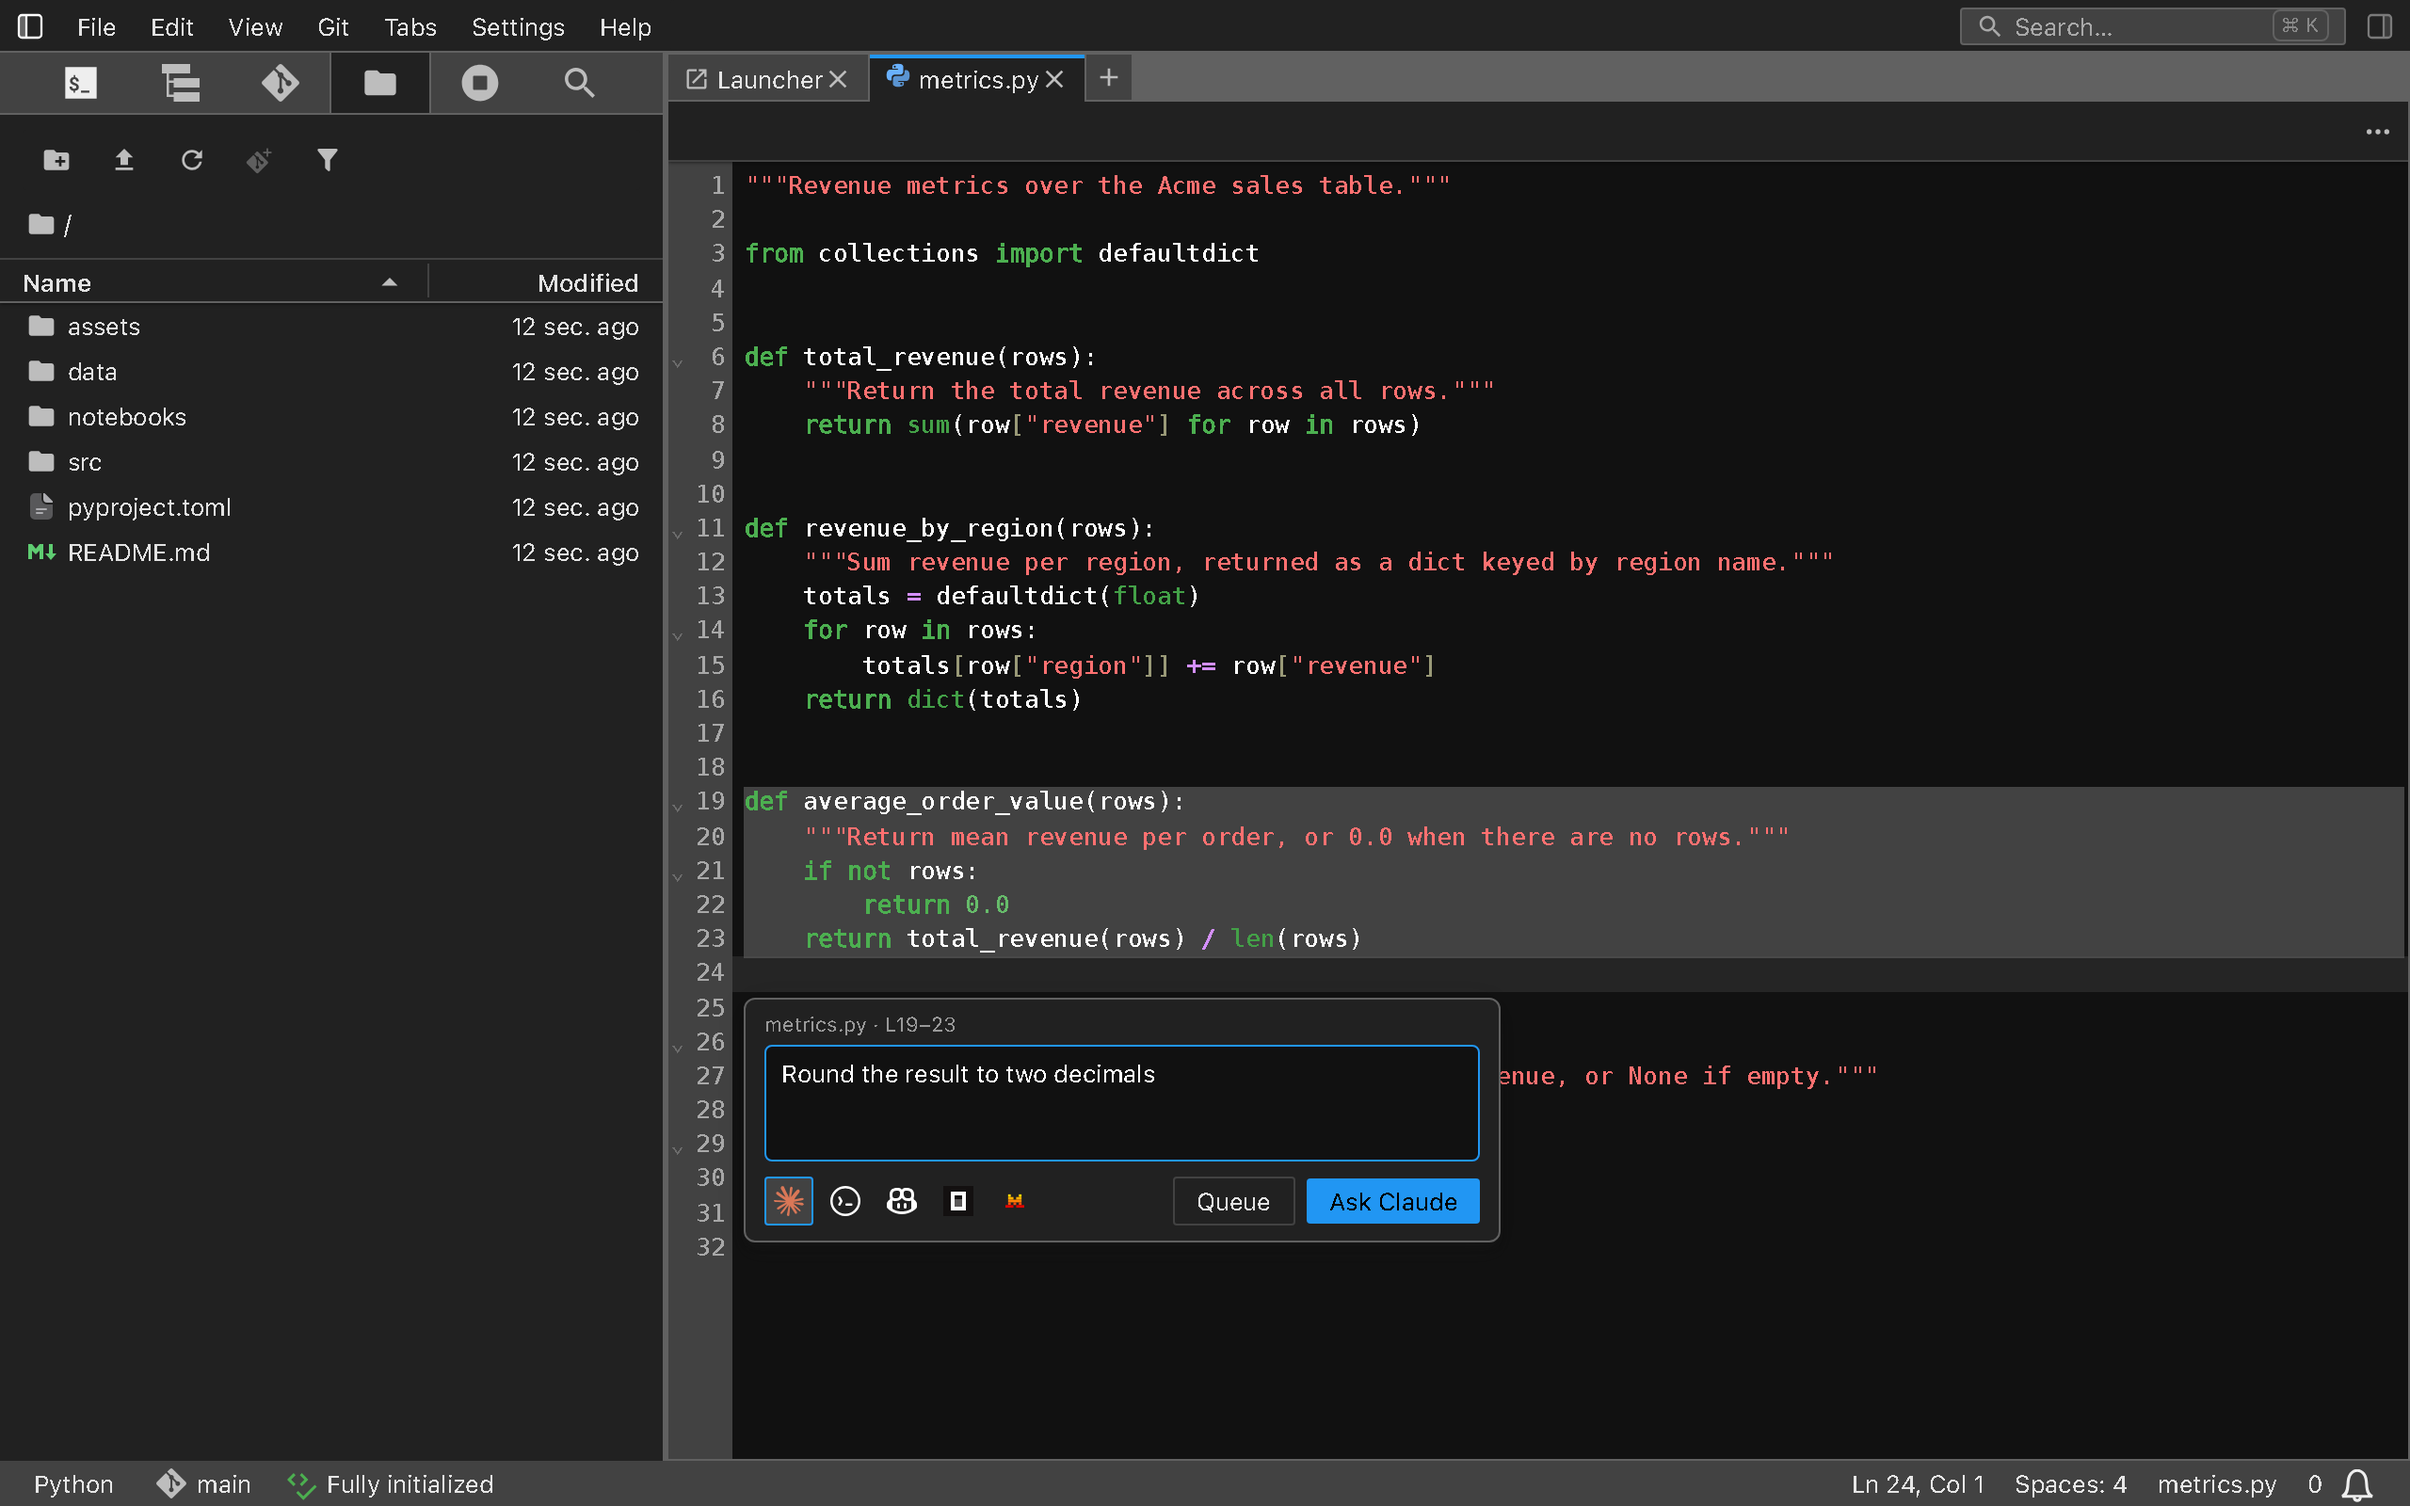
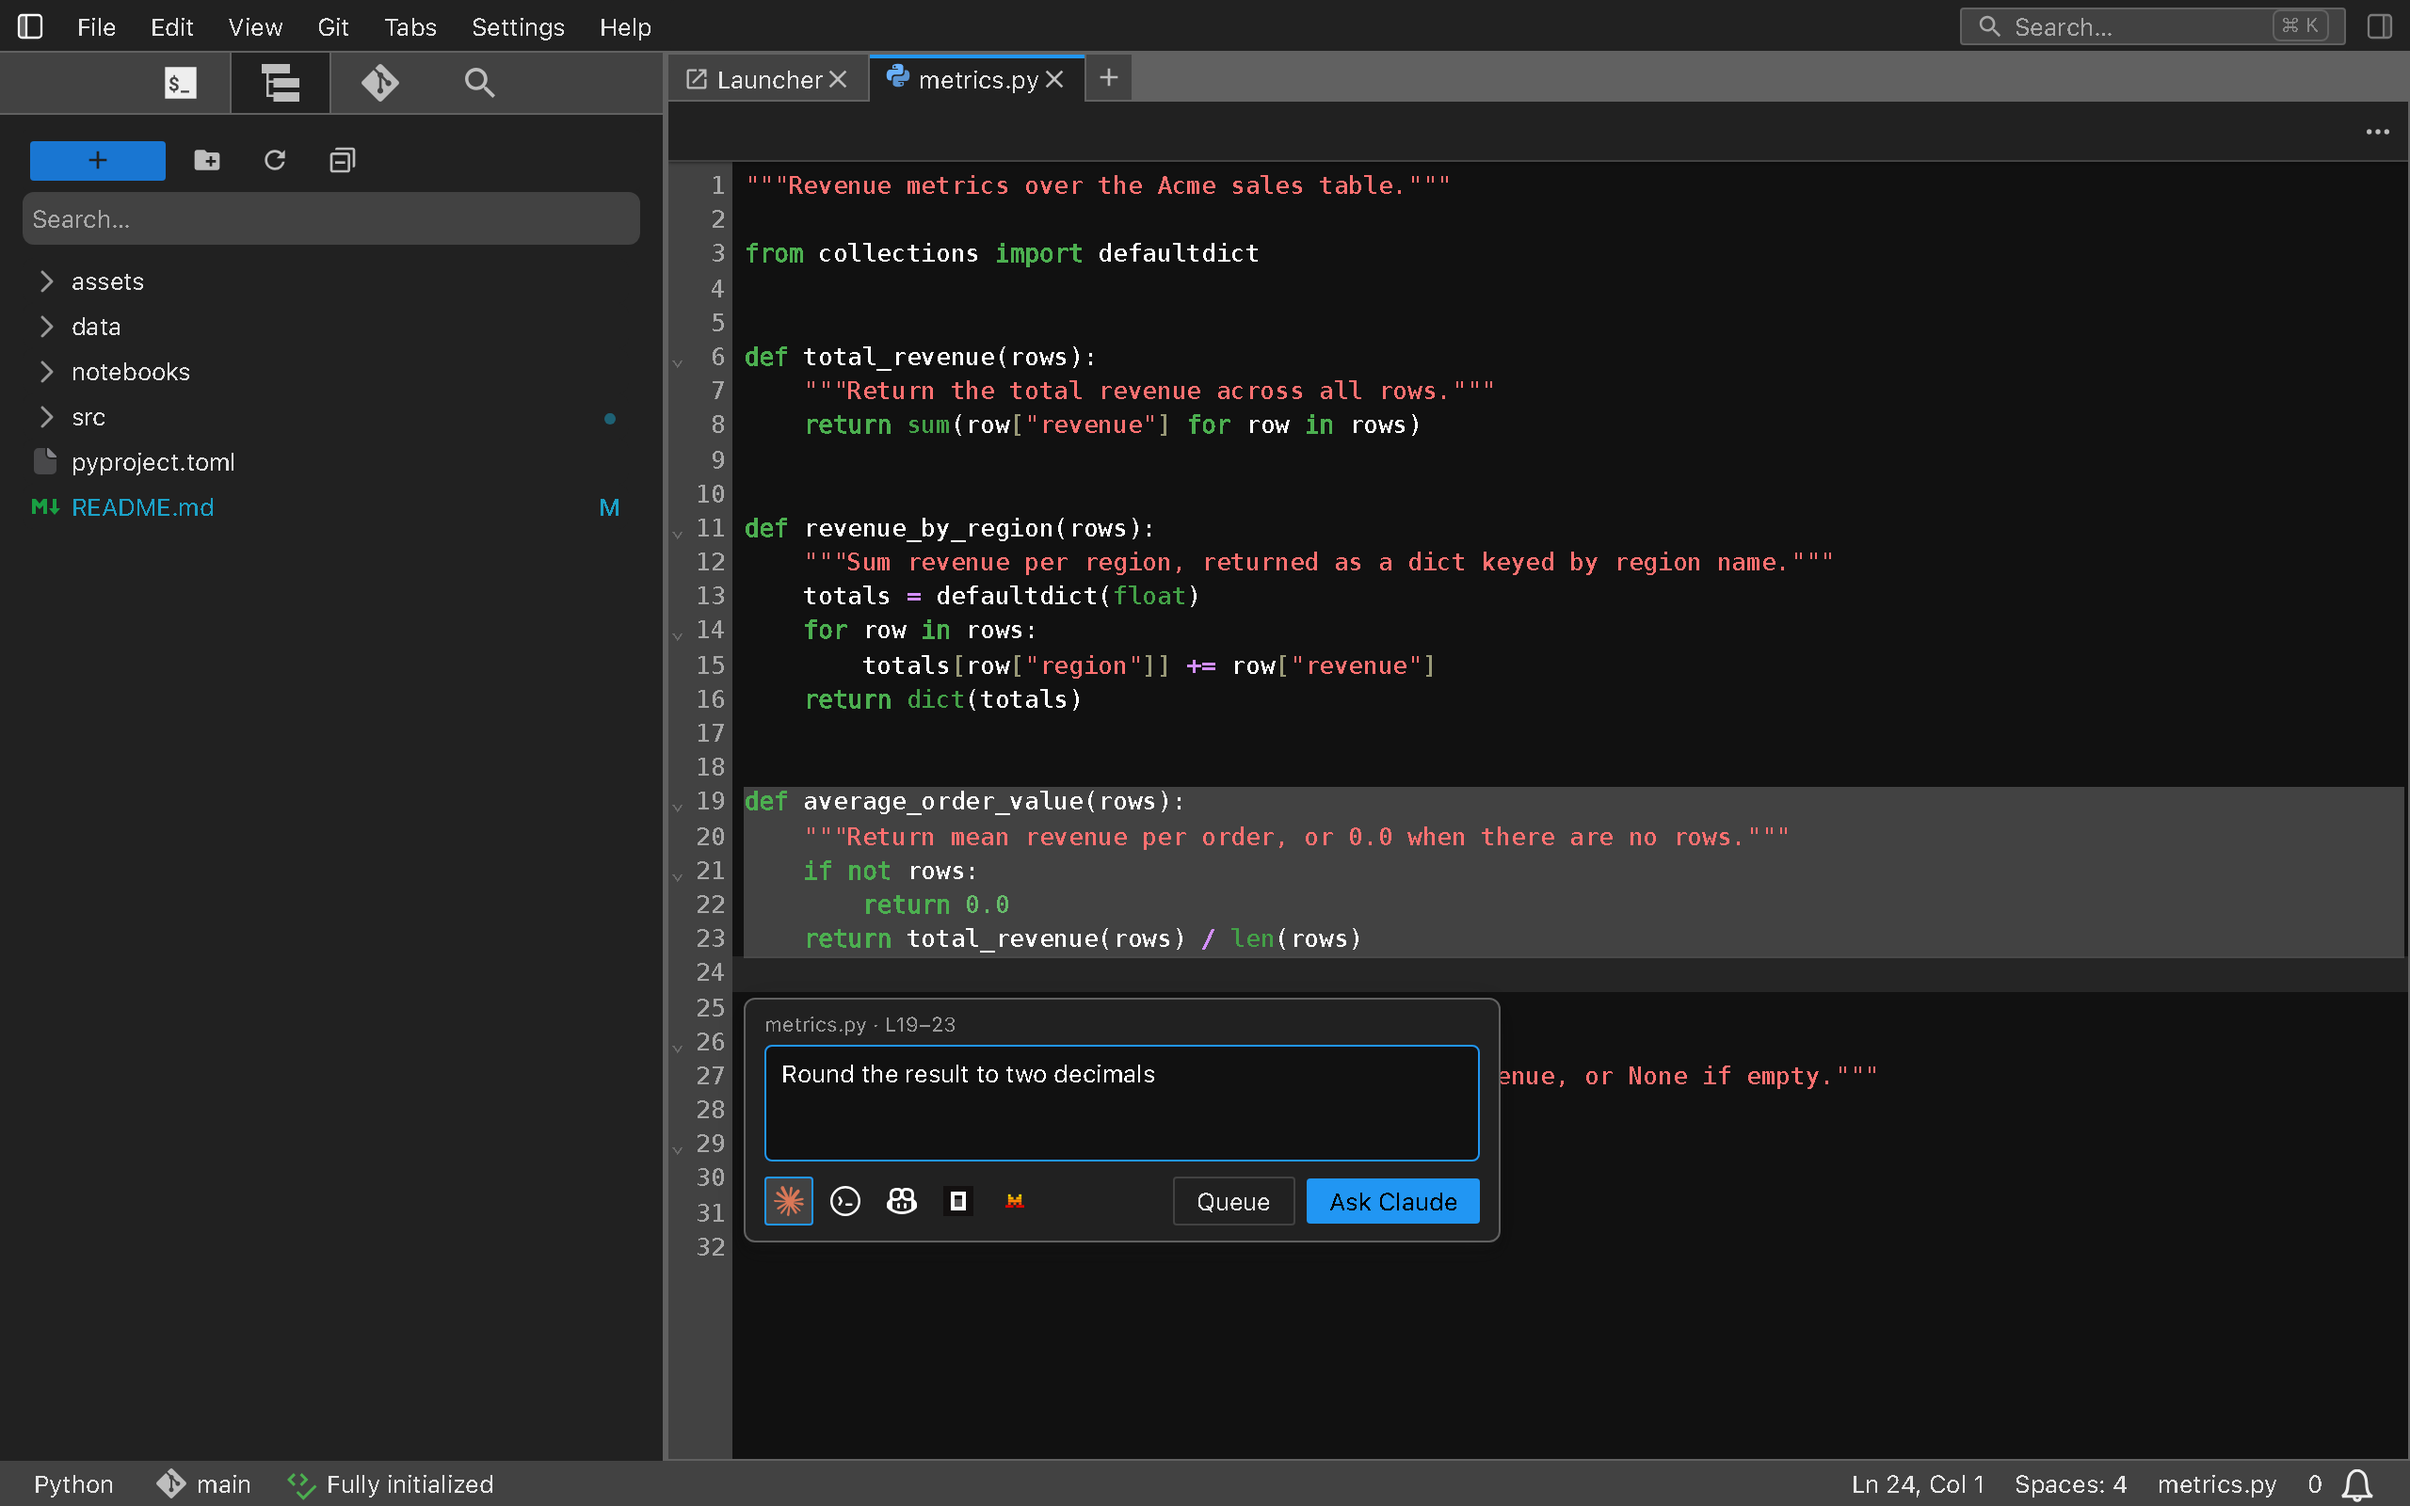
Match the README sidebar in the docs screenshots

Changed region(s): [[0.0, 0.0312, 0.2812, 0.375]]

diff --git a/ui-tests/screenshots.spec.ts b/ui-tests/screenshots.spec.ts
@@ -26,9 +26,14 @@ const test = base.extend({
 test.use({
   autoGoto: false,
   // Loaded settings still come from the server (so xtralab's shipped
-  // defaults apply); this override is layered on top, in memory only.
+  // defaults apply); these overrides are layered on top, in memory only.
+  // The sidebar tabs are trimmed to the ones the screenshots are about.
   mockSettings: {
-    '@jupyterlab/apputils-extension:themes': { theme: 'JupyterLab Dark' }
+    '@jupyterlab/apputils-extension:themes': { theme: 'JupyterLab Dark' },
+    'xtralab:sidebar': {
+      showDefaultFileBrowser: false,
+      showRunningSessions: false
+    }
   }
 });
 
@@ -41,6 +46,16 @@ async function ready(page: IJupyterLabPageFixture): Promise<void> {
   await page.waitForSelector('body[data-jp-theme-name="JupyterLab Dark"]', {
     state: 'attached'
   });
+  // Hiding the default file browser can leave the sidebar stack without a
+  // current widget, so bring up the xtralab file tree explicitly.
+  await page.evaluate(() => {
+    (window as any).jupyterapp.shell.activateById('xtralab:file-browser');
+  });
+  // The tree rows render inside @pierre/trees' shadow DOM, so wait for the
+  // visible host instead of row text.
+  await page
+    .locator('[id="xtralab:file-browser"] file-tree-container')
+    .waitFor({ timeout: 15000 });
   // Wide enough for the whole sidebar tab strip.
   await page.sidebar.setWidth(320);
   await page.evaluate(() => document.fonts.ready);
